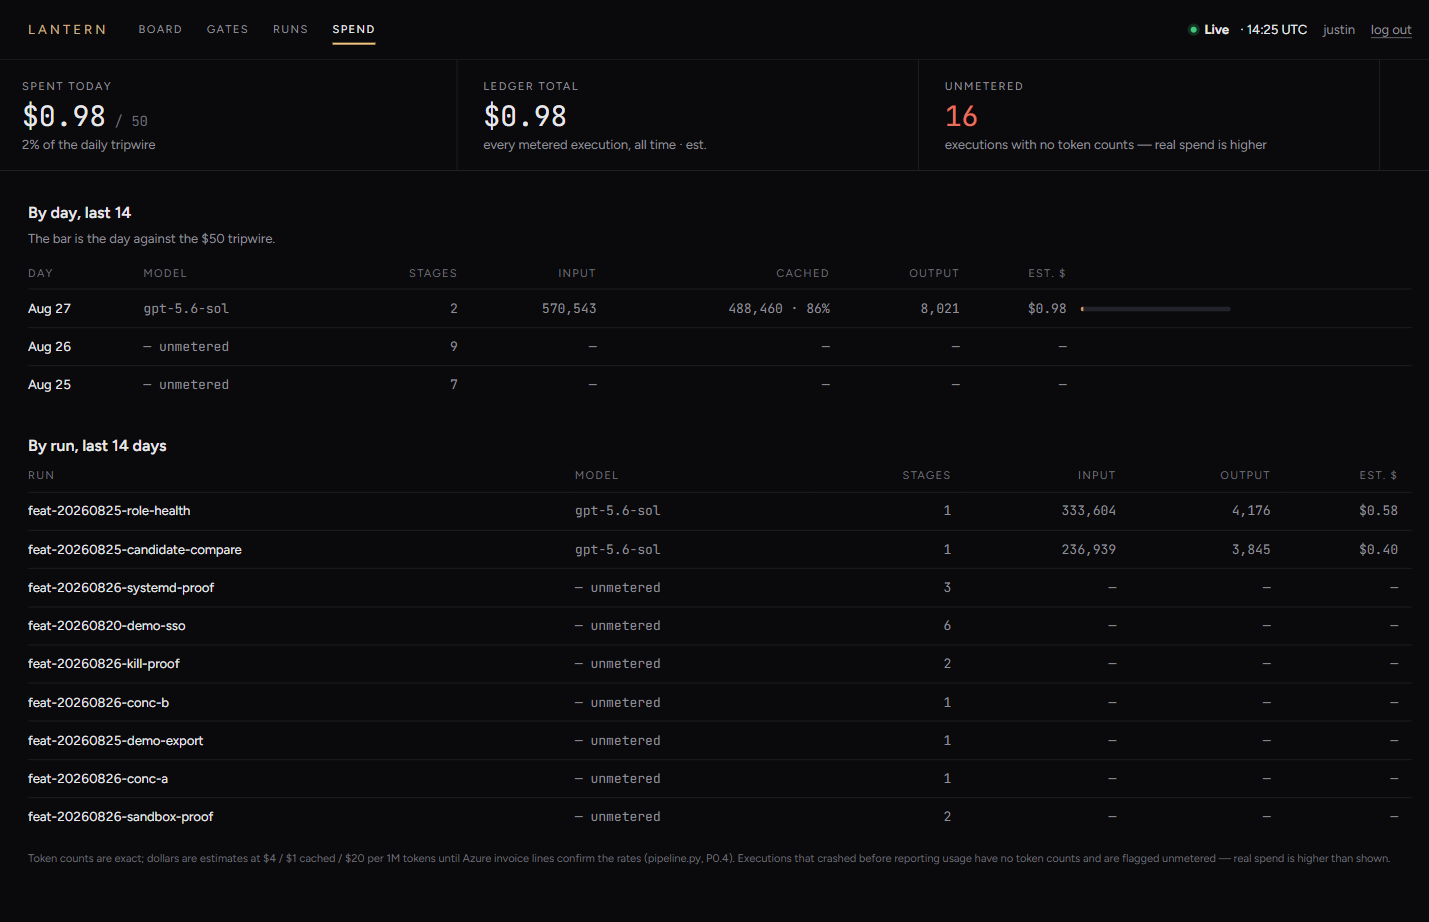
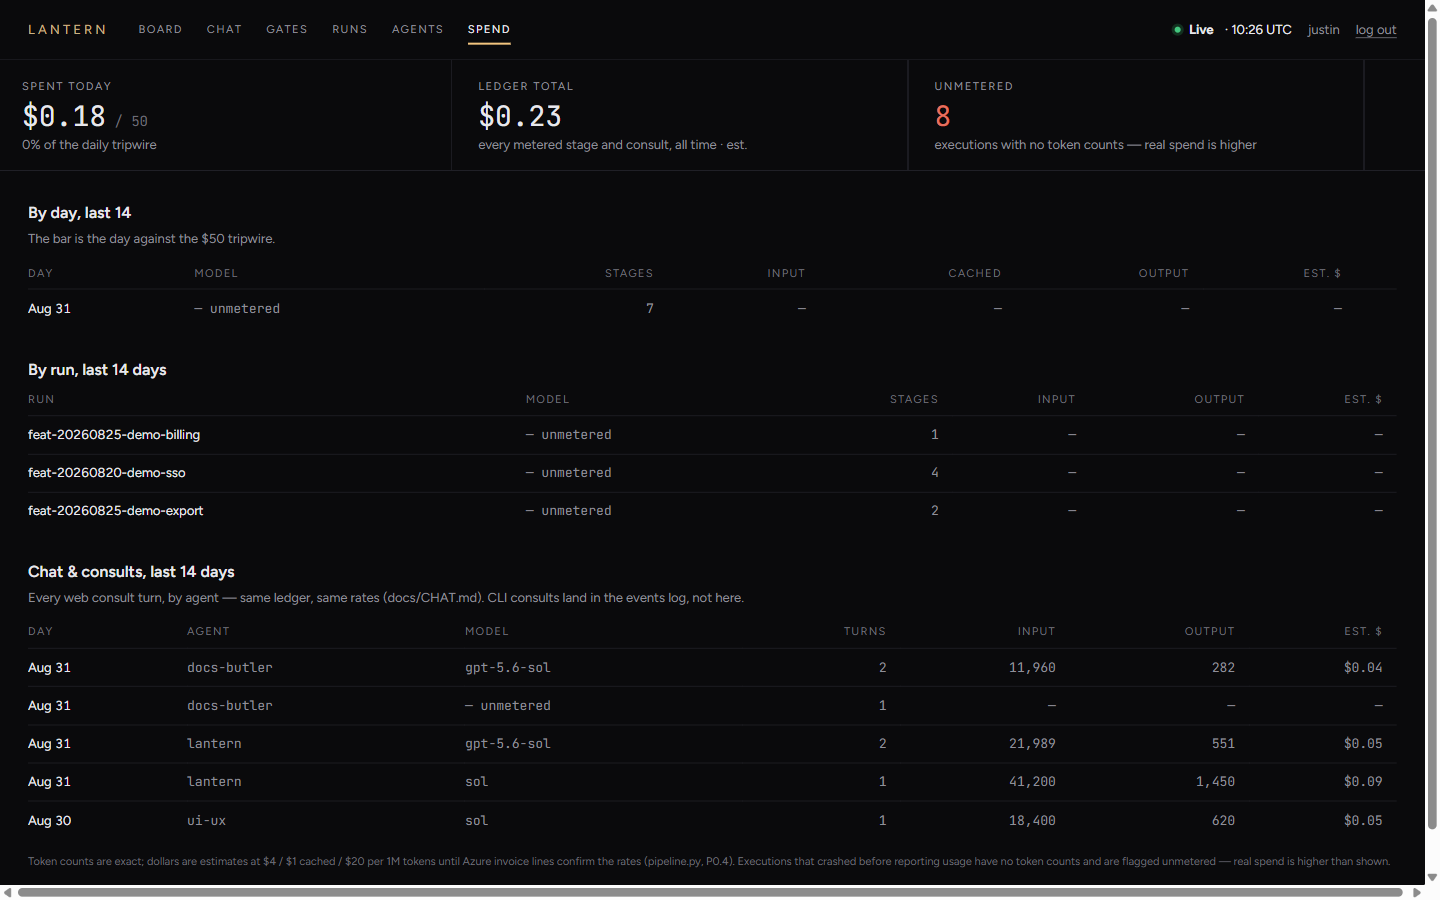
Chat docs: design record (CHAT.md), D13, contract pointers, live screenshots
CHAT.md carries the design and its references, read not remembered: Claude
Code's transcript anatomy, Manus's session rail + replayable activity, Devin's
unified progress stream, agent-chat-ui's baseline, Dust's compose-from-purpose
agent creation — with Lantern's design system winning conflicts (its shell was
already 'left column = the conversation'). D13 records the decisions and their
whys; AGENTS.md's consult section now names the web surface; Mission Control
docs/READMEs cover the five screens; live-* screenshots refreshed from the
running app, including the orchestrator session with a security handoff.

diff --git a/docs/CHAT.md b/docs/CHAT.md
@@ -1,0 +1,184 @@
+# Chat — talking to the fleet from Mission Control
+
+Where developers *talk* to the pipeline. Mission Control's board answers "where is
+my feature?"; Chat answers everything you would otherwise walk over to a colleague
+for: "why did QA fail?", "what would security say about storing this token?",
+"what's blocked right now and what does it cost?". It is the web surface of
+**consult mode (D11)** — the same advisory, read-only line, with history, live
+activity, and a token ledger attached.
+
+## The two ways to talk (matches D11's two ways to use an agent)
+
+1. **Consult one specialist.** Every fleet role (`agents/<role>/`) and every
+   user-created agent is directly addressable: pick it, type, Enter. The agent
+   gets its charter/skills/memory as a system prompt, repo read tools, and
+   `append_memory` — exactly what `pipeline.py ask <role>` builds, sharing the
+   same conversation store, so a thread started in the CLI can continue on the
+   web and vice versa (session ids share the `consult:{user}:{agent}:{name}`
+   convention).
+2. **Ask Lantern.** One orchestrator chat that "does everything": it holds the
+   whole pipeline in view (read tools over the repo *plus* three database tools —
+   `pipeline_snapshot`, `run_detail`, `spend_summary`) and **pulls specialists in
+   as tools** (`ask_specialist(role, question)` runs a one-shot consult of that
+   role and returns the answer). You ask one chat; it routes depth to the right
+   role. Specialist calls are visible in the transcript and metered into the
+   same turn ledger.
+
+Both stay **advisory and read-only** — no write tools, no gate access, no run
+mutation. That is D11's deliberate line, and the web changes nothing about it:
+work that changes the product or a run goes through a pipeline run, where
+verification and gates exist. The chat UI says so on every composer footer
+rather than letting anyone discover it by surprise.
+
+## What the references gave us (read 2026-08-31, not remembered)
+
+- **Claude Code** (the interaction model the brief names): a transcript is
+  *messages interleaved with tool lines*, not bubbles — each tool call is one
+  compact mono line (`⏺ read_file(workflow/RUNBOARD.md)`) with the result
+  folded away; Enter sends, Shift+Enter breaks; a working indicator with elapsed
+  time and a stop affordance; sessions are resumable and cost is first-class.
+  Adopted wholesale — it matches the house rule "prefer information on surfaces
+  over boxing everything into cards".
+- **Manus**: three panes — past task threads left, the conversation center, and
+  the agent's live activity visible in the open rather than as a black box;
+  sessions are replayable after the fact. Adopted: the session rail, and
+  `chat_turns.trace` persists every tool call so a finished turn replays its
+  activity exactly (nothing is only-live).
+- **Devin**: one unified progress timeline per step instead of separate
+  shell/edit/browser views. Adopted: tool lines live *inside* the turn that
+  caused them, in order, one stream.
+- **LangGraph agent-chat-ui / assistant-ui**: thread management + tool-call
+  visualization + streaming as the baseline anatomy of an agent chat. Confirms
+  the shape; nothing else taken (it's a Next.js SPA — Mission Control stays
+  server-rendered, no build step).
+- **Dust (Agent Builder + Sidekick) / Lindy**: agent creation is a form a
+  non-engineer finishes in a minute — name it, say what it's for, instructions
+  are *drafted for you* rather than demanded. Adopted: `purpose` is the only
+  required field; instructions are optional and composed from a template when
+  empty.
+- **openai/symphony** (read earlier for the board, `tools/mission-control/mockups/README.md`):
+  numbers as `Total` with `In / Out` beneath, `tabular-nums slashed-zero`
+  everywhere, live-ness driven by socket state and never faked, empty states
+  written as sentences. All kept here.
+
+Lantern's house style wins where they conflict: the design system's own shell
+pattern is already "left column = the conversation, right column = the working
+surface" with LANTERN/YOU speaker labels — so the chat page is the design
+system's conversation pattern, finally used for an actual conversation.
+
+## Where it runs
+
+Same process, same rules as the rest of Mission Control (`docs/MISSION-CONTROL.md`):
+FastAPI + server-rendered HTML, no build step, HMAC-cookie auth, nothing served
+unauthenticated, reads and writes the same Postgres the pipeline uses. The chat
+logic itself lives in **`tools/azure-runner/chat_service.py`** — harness-agnostic,
+imported by the web app the way `pipeline.py` already is, so a future Slack
+surface (or the CLI) reuses sessions, ledger, and agent construction without
+touching the web layer.
+
+Model calls use the same Azure OpenAI client, deployment routing
+(`LANTERN_MODEL_REASONING`/`_FAST`), and `set_default_openai_api` setup as the
+orchestrator. If the Azure env vars are absent, chat pages render with an honest
+"model backend not configured" notice instead of crashing the board.
+
+## Backend: three tables, one bus
+
+Schema (`tools/azure-runner/schema.sql`, idempotent like everything else there):
+
+- **`chat_sessions`** — one row per conversation: `id` (the
+  `consult:{user}:{agent}:{name}` string, which is *also* the Agents SDK
+  session key, so the SDK's `agent_messages` rows and ours can never disagree
+  about identity), `agent`, `title` (first message, renamable), `created_by`,
+  optional `run_id` scope, `archived`, timestamps.
+- **`chat_turns`** — one row per user turn, and the system's memory of *what
+  was happening*: `user_text`, `final_text`, `status`
+  (`running|done|failed|stopped`), `error`, **`trace`** (jsonb list of tool
+  calls / specialist handoffs / notes, in order, with elapsed offsets), and the
+  same token-ledger columns as `stage_executions` (`model`, `requests`,
+  `input_tokens`, `cached_input_tokens`, `output_tokens`, `total_tokens`).
+  Dollars are computed at render time by `est_cost_usd` — stored token counts
+  are exact, prices stay provisional, same as the rest of the ledger (P0.4).
+- **`custom_agents`** — `slug`, `name`, `purpose`, optional `instructions`,
+  `model_pref` (`reasoning|fast`), `created_by`, `archived`. Custom agents get
+  the consult toolset and `append_memory` under their own slug in `role_memory`
+  (table-only — no `agents/<slug>/memory.md` is rendered; their unconsolidated
+  rows are embedded into the next session's instructions instead), so a custom
+  agent *accumulates judgement* like a fleet role does.
+
+Conversation context (what the model re-reads each turn) stays in the Agents
+SDK's own `agent_sessions`/`agent_messages` tables via `SQLAlchemySession` —
+deliberately not parsed for display, because the SDK's message shape has
+shifted between releases (see `usage_dict`'s defensive posture). The transcript
+renders from `chat_turns`, which we own.
+
+**Live activity** is an in-process `TurnBus`: per-session subscriber queues plus
+a replay buffer for the active turn. `POST /chat/{sid}/send` starts the turn as
+a background task; `GET /chat/{sid}/events` (SSE) replays what you missed, then
+streams deltas, tool lines, and the final ledger. Refresh-safe and multi-tab
+safe by construction: the page renders history from Postgres, then attaches to
+the bus. Subscribers are per-SESSION and outlive turns — a page attached while
+the conversation is idle must still hear the next turn (v1 had them per-turn
+and went deaf; `test_chat_service.py` pins the regression). Known limit, stated
+plainly: the bus is process-local, so Mission Control runs single-process (it
+already does — one uvicorn, one systemd unit); shutdown closes every open
+stream so restarts never hang on SSE connections, and a turn whose process died
+is marked `failed («interrupted — mission control restarted mid-turn»)` on next
+contact rather than pretending to still run.
+
+Every finished turn also lands one `consult` row in `events` (actor
+`human:{user}`, `channel: web`, usage attached) — the CLI already does exactly
+this, so the audit log sees one stream of consults regardless of surface.
+
+## Frontend: three screens
+
+1. **`/chat` — the hub.** Left rail: every past conversation (yours first,
+   grouped Today / Earlier, the team's below — the *past chat history*
+   requirement), each row carrying agent, title, age, and spend. Main surface: "Ask Lantern"
+   hero card, the specialist gallery (fleet roles + custom agents, one card
+   each: caps name, one-line charter description, model routing, memory count),
+   and the composer. Pick an agent (or keep Lantern), type, Enter — that's a
+   session. No separate "create conversation" step, no empty sessions littering
+   history (the session row is created with its first message).
+2. **`/chat/{sid}` — the conversation.** Claude-Code-anatomy transcript: `YOU`
+   / agent caps labels, streamed text, tool lines with folded results,
+   specialist handoffs shown as indented sub-consults, a working footer with
+   elapsed time + live tool count + Stop, and a per-turn ledger line (model ·
+   tokens · cached % · est. $ · duration). Composer pinned at bottom with the
+   advisory-line status footer ("UI-UX CONSULT · ADVISORY, READ-ONLY · $0.32
+   THIS CHAT" — or "NOTHING BILLED YET", which is the design system's own
+   example copy). Sessions scoped to a run (`run_id` set) carry the run chip
+   and the agent is pointed at the run folder in its instructions.
+3. **`/agents` — the roster.** Fleet roles (read from `agents/<role>/`, exactly
+   what the orchestrator loads) and custom agents side by side with per-agent
+   usage (sessions, tokens, est. $, memory entries). "New agent" is the
+   Dust-style two-field form: name + what-it's-for; instructions optional
+   ("leave empty and Lantern writes them from the purpose"); reasoning/fast
+   routing choice. Archiving hides an agent from the gallery without touching
+   its history.
+
+Entry points from the rest of Mission Control: every stage card on a run page
+gets "Consult ‹role› about this run", and the run header gets "Ask Lantern
+about this run" — both open a run-scoped session. `/spend` gains a
+"Chat & consults" section off `chat_turns`, so consult spend is visible next to
+stage spend instead of hiding in the events log.
+
+## Honesty rules (carried over, not new)
+
+- A turn that crashed before usage arrived shows **unmetered**, never $0.00.
+- Verdict-free rendering: the transcript shows what the agent actually did
+  (tool lines from the trace), not a summary of it.
+- The advisory/read-only line is on-screen at the composer, always.
+- Browser roles (`ui-ux`, `qa-dev`, …) consult here **without** their Playwright
+  MCP in v1 — the agent card says so ("browser tools: CLI consults only for
+  now") instead of silently degrading. `pipeline.py ask -i` remains the path
+  when a live browser matters.
+- Live-ness is real: the working indicator is driven by the SSE socket, and a
+  dead socket says "reconnecting", never a frozen spinner.
+
+## Roadmap
+
+- v1 (now): everything above.
+- v2: opt-in Playwright MCP for browser-role consults (`LANTERN_CHAT_BROWSER=1`);
+  file/image drop into the composer; Slack surface reusing `chat_service`.
+- v3: "promote this consult" — draft a brief from a conversation and hand it to
+  `pipeline.py run` (the human still starts the run; the gate line does not move).

diff --git a/docs/DECISIONS.md b/docs/DECISIONS.md
@@ -249,3 +249,43 @@ root ONLY to chown the docker-created root-owned mountpoint parents, then drops
 itself to uid 1000 (setpriv) — a straight `--user 1000` start cannot write beside
 mountpoints docker pre-creates as root. The image keeps browsers in a world-readable
 `/ms-playwright` and `HOME=/work`, so nothing runs as root past the first line.
+
+## D13 — 2026-08-31 — Chat surface: consult mode gets a web face, custom agents, one ledger
+
+The ask: talk to the fleet from the browser the way you talk to Claude Code —
+per-stage specialists or one chat that does everything, effortless agent
+creation, past-chat history, and a backend where sessions and token spend are
+tracked end to end. Design doc: `docs/CHAT.md`. Decisions, each with the why:
+
+- **Chat is consult mode (D11), not a new power.** Web consults get the same
+  advisory/read-only toolset, the same `consult:{user}:{agent}:{name}` session
+  key (so CLI and web continue each other's threads via the SDK's Postgres
+  sessions), and the same `consult` audit events. The gate line does not move:
+  nothing in the chat surface can start runs, decide gates, or write files.
+- **The "one chat" is an orchestrator agent, not a router.** `lantern` carries
+  the AGENTS.md contract plus three read-only database tools
+  (`pipeline_snapshot`, `run_detail`, `spend_summary`) and `ask_specialist`,
+  which runs a one-shot consult of a fleet role and relays the answer with
+  attribution. Specialist usage merges into the parent turn's ledger row
+  (`model = 'mixed'` when deployments differ — flat rates price those).
+- **Transcript state is ours; model context is the SDK's.** `chat_turns` holds
+  what the UI renders (user text, final text, an ordered `trace` of tool calls
+  and handoffs, the P0.4 token columns); the Agents SDK's `agent_messages`
+  holds what the model re-reads. Deliberate duplication: the SDK's message
+  shape has drifted between releases and is never parsed for display.
+- **Live activity is an in-process bus + SSE, not a queue service.** Subscribers
+  are per-session and outlive turns (v1 had them per-turn — a page attached
+  while idle went deaf to the next turn; `test_chat_service.py` pins the fix).
+  Replay covers mid-turn attach and reconnect. Process-local on purpose (one
+  uvicorn, one box, D8's "upgrade when it hurts"); a turn orphaned by a restart
+  is marked failed «interrupted», never left pretending, and shutdown closes
+  every stream so restarts can't hang on open SSE connections.
+- **Custom agents are rows, not roles.** `custom_agents` (name, purpose,
+  optional instructions — composed from the purpose when empty, the Dust move)
+  get the consult toolset and learn through `role_memory` under their slug,
+  embedded into later instructions (table-only; no `agents/<slug>/` folder is
+  rendered). An agent that needs to act in the pipeline still becomes a real
+  role via `agents/_template/` — the roster page says exactly that.
+- **Browser roles consult without their Playwright MCP in v1**, and the card
+  says so, rather than spawning a browser per web turn; `pipeline.py ask -i`
+  remains the path when a live browser matters.

diff --git a/docs/MISSION-CONTROL.md b/docs/MISSION-CONTROL.md
@@ -15,7 +15,7 @@ via Tailscale (recommended) or a security-group-allowlisted IP + the built-in HT
 Basic auth — never open to the internet. Upgrade path if it ever needs public
 access or SSO: put CloudFront/ALB + OIDC in front; the app doesn't change.
 
-## The three screens (and why these visuals)
+## The five screens (and why these visuals)
 
 1. **The Inbox — "what needs a human right now."** Pending gates, oldest first,
    each with its payload (video link, plan, findings) and Approve/Reject inline.
@@ -31,7 +31,17 @@ access or SSO: put CloudFront/ALB + OIDC in front; the app doesn't change.
    lists, plans, diff/PR links), and the append-only event log underneath. This is
    where Justin watches a video instead of attending a demo, and where a developer
    audits an agent's claim in seconds — small artifacts, visually reviewable, per
-   Karpathy's leash rule.
+   Karpathy's leash rule. Every stage card links to a run-scoped consult of its
+   owning role ("consult ui-ux about this run"), and the run header to Lantern.
+4. **Chat — talking to the fleet** (`/chat`, design: `docs/CHAT.md`). The web
+   face of consult mode (D11): any fleet role, any custom agent, or the Lantern
+   orchestrator (which reads the pipeline database and hands questions to
+   specialists), with session history, live tool-call streaming over SSE, and
+   every turn in the token ledger. Advisory and read-only — the composer footer
+   says so on every conversation.
+5. **Agents — the roster** (`/agents`). Fleet roles beside user-created custom
+   agents, with per-agent usage and memory counts; new agents are a two-field
+   form (name + purpose; instructions composed when left empty).
 
 ## Gate integrity in the UI
 
@@ -47,8 +57,10 @@ status legend defines every color — a developer's first visit needs no walkthr
 
 ## Roadmap
 
-- v1 (now): the three screens above, polling refresh.
-- v2: SSE live event stream on the run page; inline `<video>` playback via
-  presigned S3 URLs; Slack notification links deep-linking to the gate.
-- v3: brief-composer form ("start a run" from the browser), PostHog error inbox
-  feeding the debug lifecycle.
+- v1: the first three screens, polling refresh. **Done.**
+- v2 (now): Chat + Agents (SSE streaming landed there first); chat spend in the
+  ledger views.
+- v3: SSE on the run page; inline `<video>` playback via presigned S3 URLs;
+  Slack notification links deep-linking to the gate; brief-composer form
+  ("start a run" from the browser); PostHog error inbox feeding the debug
+  lifecycle; browser-MCP consults for browser roles (docs/CHAT.md roadmap).

diff --git a/AGENTS.md b/AGENTS.md
@@ -30,7 +30,7 @@ workflow/runs/          one folder per feature/bug run; all stage artifacts live
 workflow/templates/     stage report + handoff templates
 tools/azure-runner/     the fleet runtime: pipeline.py (one-call loop) + orchestrator.py (single stage) + schema.sql
 tools/qa-recorder/      Playwright-based QA with built-in video recording
-tools/mission-control/  web UI: gate inbox, run board, verification timeline (docs/MISSION-CONTROL.md)
+tools/mission-control/  web UI: gate inbox, run board, verification timeline, fleet chat (docs/MISSION-CONTROL.md, docs/CHAT.md)
 infra/ec2/              EC2 provisioning: bootstrap.sh + systemd units + operations
 docs/ORCHESTRATION.md   the one-call concept→live loop: Postgres state machine, gates, failure modes
 docs/AGENT-TOOLING.md   runtime stack, per-agent tools/MCP matrix, GitHub identity, orientation protocol
@@ -99,7 +99,10 @@ Bugs (user report or PostHog signal) do **not** enter at stage 1 — they follow
    changes artifacts; postconditions and gates apply.
 2. **Direct consult** — any developer asks any role directly:
    `pipeline.py agents` to list them, `pipeline.py ask <role> "<prompt>"` to talk
-   (`-i` for a live loop; follow-up asks continue the same conversation). Consults are
+   (`-i` for a live loop; follow-up asks continue the same conversation), or the
+   **Chat tab in Mission Control** (docs/CHAT.md, D13) — same session store, so a
+   thread continues across CLI and web; the web adds the `lantern` orchestrator
+   chat and user-created custom agents. Consults are
    **advisory and read-only**: the agent reads the repo and answers, but work that
    mutates the product or a run goes through a pipeline run.
 

diff --git a/tools/mission-control/README.md b/tools/mission-control/README.md
@@ -1,9 +1,18 @@
 # Mission Control
 
 The web UI for the fleet — design and rationale in `docs/MISSION-CONTROL.md`.
-Three screens: the **Inbox** (pending gates with inline Approve/Reject), the
-**Board** (runs as cards in stage columns), and the **Run page** (verification
-timeline: reports, artifacts, videos, events).
+Five screens: the **Board** (runs as tickets in obligation columns), **Gates**
+(pending approvals with inline Approve/Reject), the **Run page** (verification
+timeline: reports, artifacts, videos, events), **Chat** (consult any fleet role,
+a custom agent, or the Lantern orchestrator — live tool streaming, history, and
+a per-turn token ledger; design in `docs/CHAT.md`, engine in
+`tools/azure-runner/chat_service.py`), and **Agents** (the roster + two-field
+custom-agent creation). **Spend** folds chat turns into the same ledger.
+
+Chat needs the Azure model env vars (`AZURE_OPENAI_*`, `LANTERN_MODEL_*`) on the
+box; without them every page still works and the composer explains what is
+missing. The SSE bus is in-process — run ONE uvicorn worker (the systemd unit
+and the commands below already do).
 
 Runs from the azure-runner venv (shared deps, imports `pipeline.py` directly):
 

diff --git a/tools/azure-runner/README.md b/tools/azure-runner/README.md
@@ -111,6 +111,14 @@ whole repo (and browser roles get the Playwright MCP — `--no-browser` to skip)
 conversation state persists in Postgres per `{you}:{role}:{session}`. Consults are
 advisory and read-only by design; producing or changing artifacts is pipeline-run work.
 
+The same consults run in the browser: **`chat_service.py`** powers Mission
+Control's Chat tab (docs/CHAT.md, D13) — same session store (a CLI thread whose
+`{you}:{role}:{session}` matches continues on the web), plus the `lantern`
+orchestrator chat (read-only DB tools + `ask_specialist`), user-created custom
+agents (`custom_agents` table), a per-turn token ledger (`chat_turns`), and live
+SSE streaming. `test_chat_service.py` covers the turn lifecycle with a faked
+model loop — no Azure credentials needed.
+
 Role memory consolidation (roughly monthly): merge the rendered rows below the marker
 in `agents/<role>/memory.md` up into the hand-written base, then mark them done and
 re-render:
